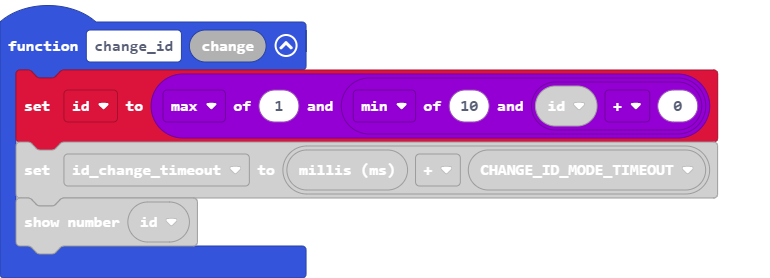
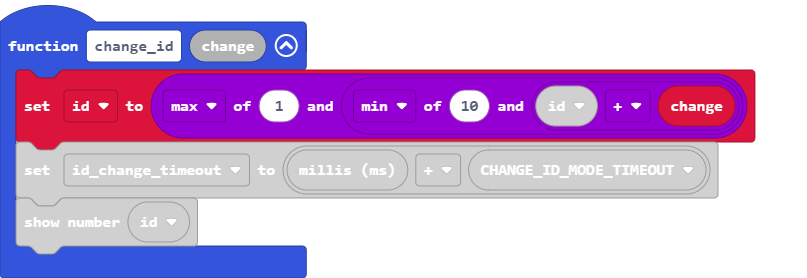
Update main.blocks, main.ts

diff --git a/main.ts b/main.ts
@@ -28,7 +28,7 @@ input.onButtonPressed(Button.B, function () {
     }
 })
 function change_id (change: number) {
-    id = Math.max(1, Math.min(10, id + 0))
+    id = Math.max(1, Math.min(10, id + change))
     id_change_timeout = control.millis() + CHANGE_ID_MODE_TIMEOUT
     basic.showNumber(id)
 }
